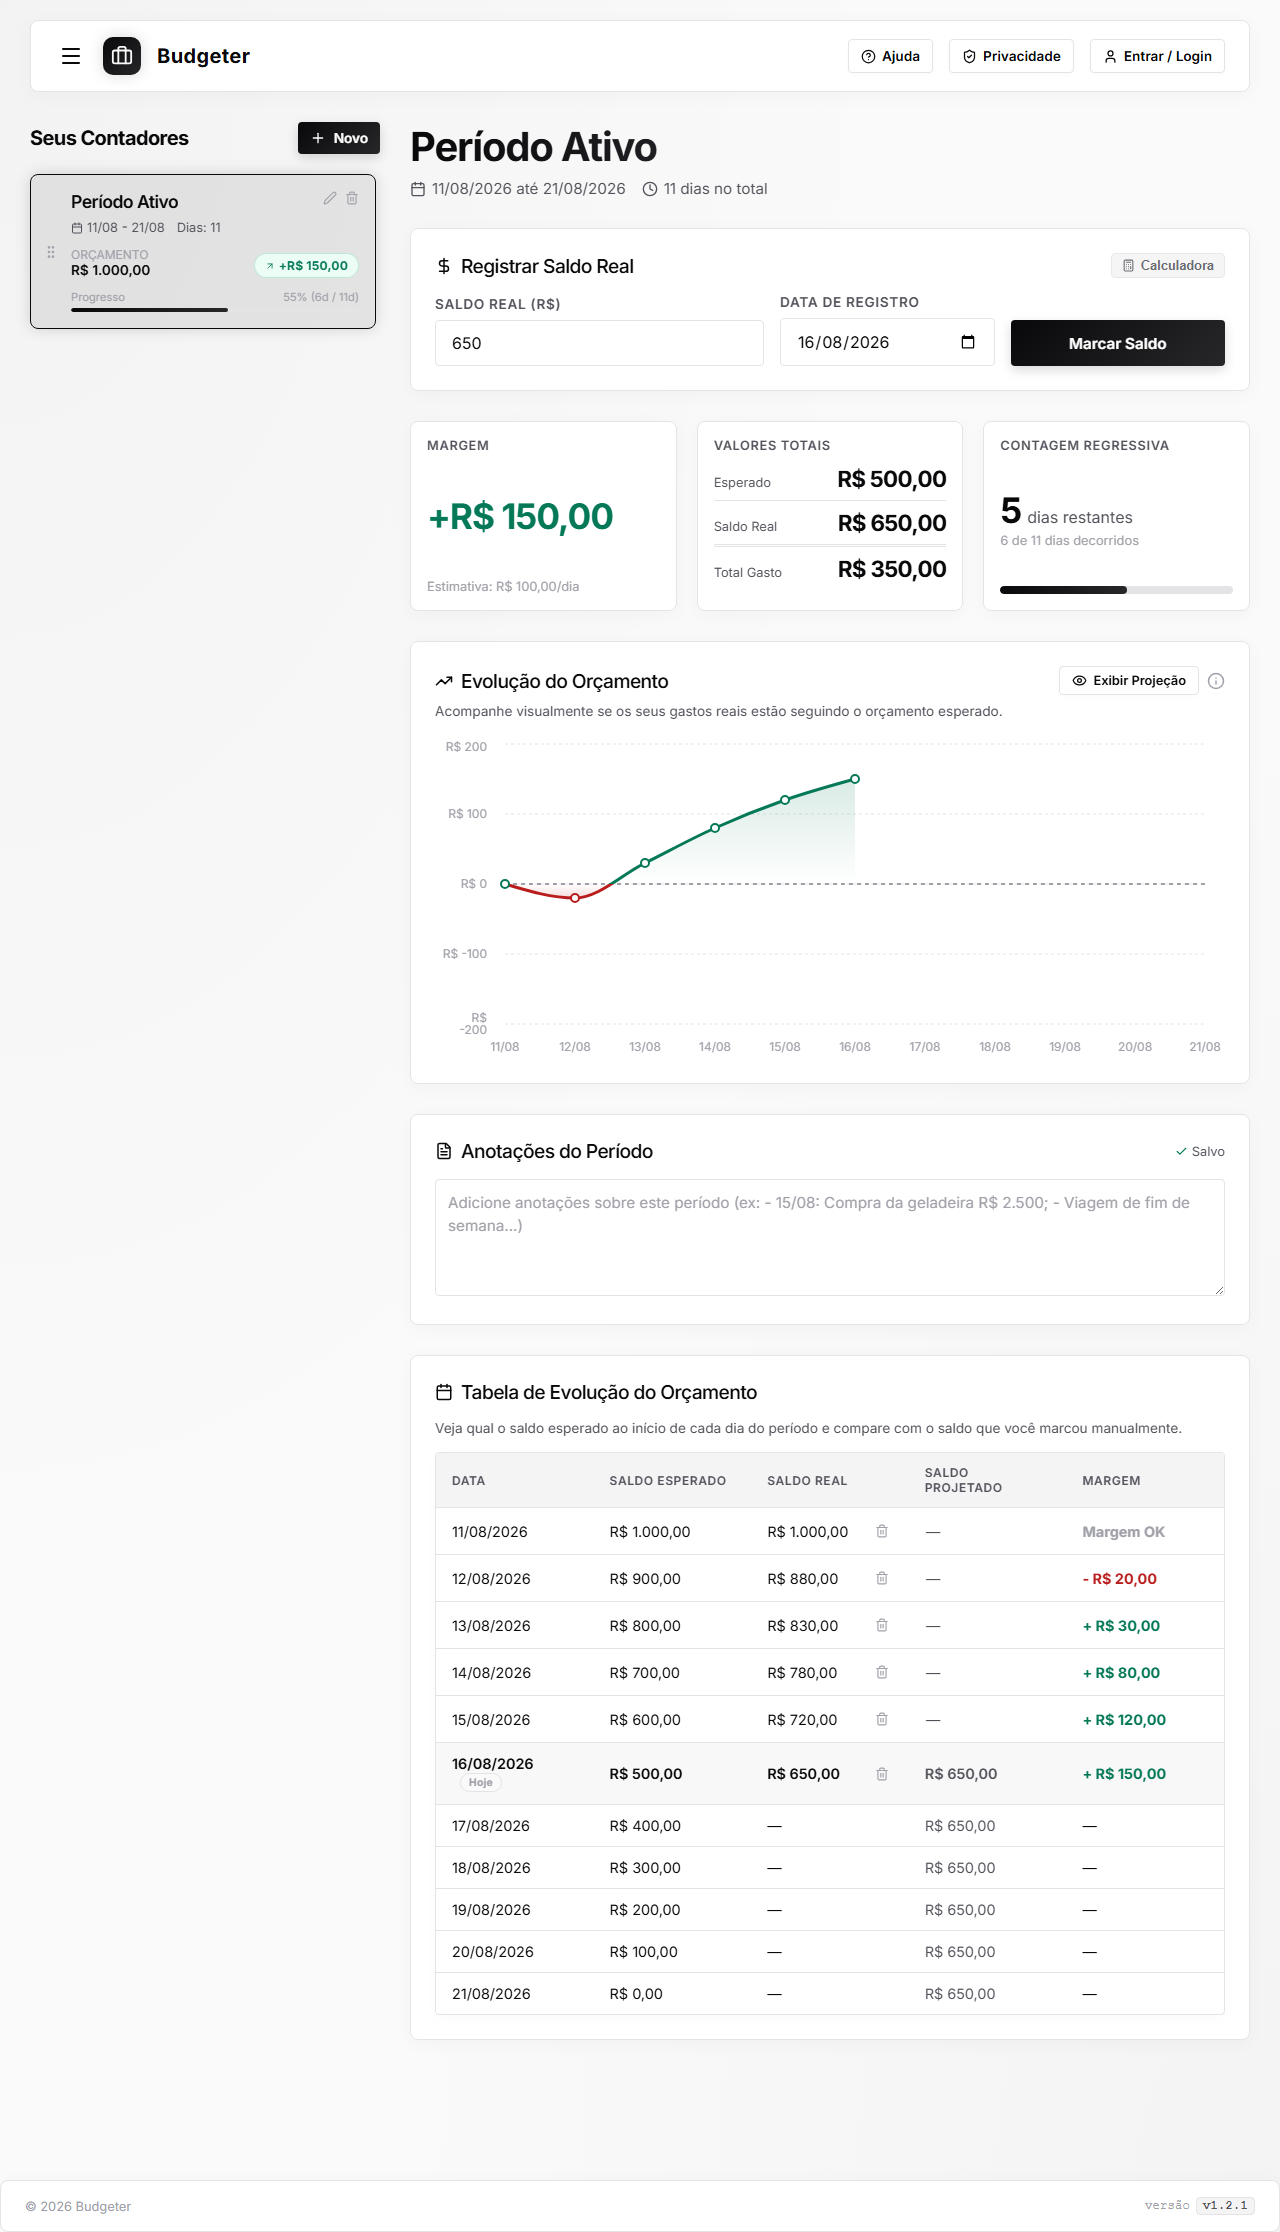
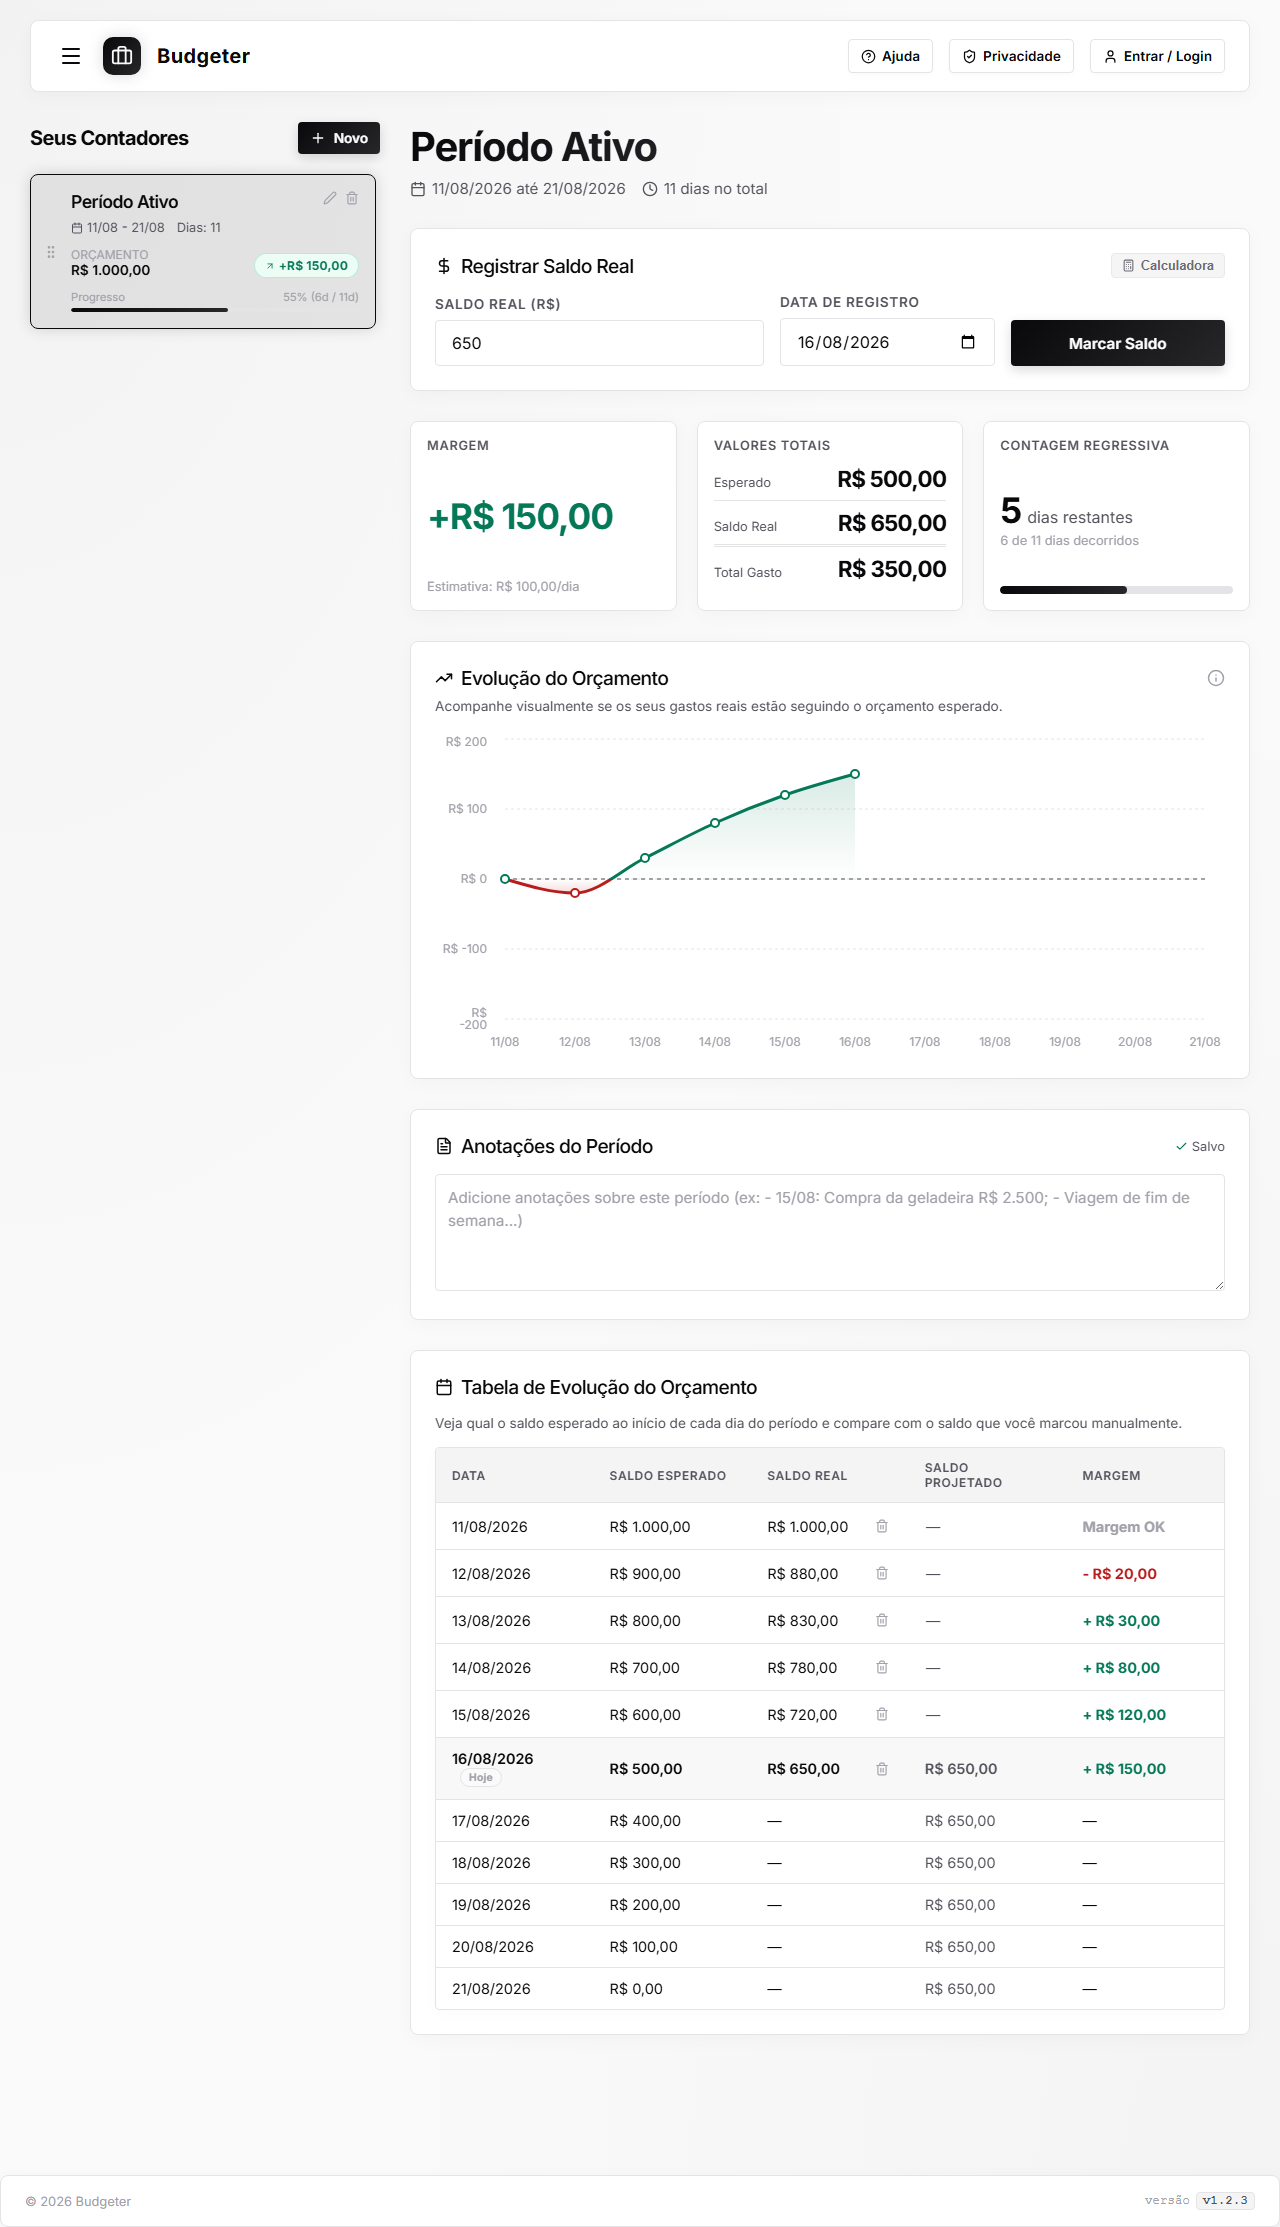
feat: exibir projeção automaticamente quando a margem for negativa e remover botão de toggle manual

diff --git a/tests/projection-toggle.spec.ts b/tests/projection-toggle.spec.ts
@@ -1,10 +1,10 @@
 import { test, expect } from '@playwright/test';
 
-test.describe('Botão de Exibir/Ocultar Projeção no Gráfico', () => {
-  test('deve manter a projeção oculta por padrão e exibi-la ao clicar no botão', async ({ page }) => {
+test.describe('Exibição Automática da Projeção no Gráfico', () => {
+  test('não deve exibir botão manual de toggle', async ({ page }) => {
     const mockPeriod = {
-      id: "test-period-projection",
-      name: "Teste Projeção",
+      id: "test-period-projection-btn",
+      name: "Teste Botão Projeção",
       startDate: "2026-07-01",
       endDate: "2026-07-31",
       initialBudget: 4000,
@@ -19,29 +19,82 @@ test.describe('Botão de Exibir/Ocultar Projeção no Gráfico', () => {
       userId: "teste"
     };
 
-    // Carrega os dados via localStorage usando addInitScript (conforme AGENTS.md)
     await page.addInitScript((data) => {
       window.localStorage.setItem('budgeter_periods', JSON.stringify([data]));
       window.localStorage.setItem('budgeter_selected_period_id', data.id);
+      window.localStorage.setItem('lgpd_consent_accepted', 'true');
     }, mockPeriod);
 
     await page.goto('/');
 
-    // Verifica se a página carregou
-    await expect(page.locator('h1')).toContainText('Teste Projeção');
-
-    // O botão de projeção deve estar visível e mostrar "Exibir Projeção" por padrão
+    // O botão de toggle de projeção não deve existir na interface
     const toggleBtn = page.locator('button.toggle-projection-btn');
-    await expect(toggleBtn).toBeVisible();
-    await expect(toggleBtn).toContainText('Exibir Projeção');
+    await expect(toggleBtn).toBeHidden();
+  });
 
-    // Por padrão, a linha/legenda da projeção não deve estar visível ou não renderizada no Recharts
-    // Ao clicar no botão, o texto do botão deve mudar para "Ocultar Projeção"
-    await toggleBtn.click();
-    await expect(toggleBtn).toContainText('Ocultar Projeção');
+  test('deve exibir a linha de projeção quando a margem for negativa', async ({ page }) => {
+    // Margem negativa: saldo registrado (1500) é menor que o esperado (~2366 no dia 15)
+    const mockPeriodNegative = {
+      id: "test-period-proj-neg",
+      name: "Teste Margem Negativa",
+      startDate: "2026-07-01",
+      endDate: "2026-07-31",
+      initialBudget: 4000,
+      finalBudget: 500,
+      currentBalance: 1500,
+      currentBalanceDate: "2026-07-15",
+      balanceHistory: {
+        "2026-07-01": 4000,
+        "2026-07-15": 1500
+      },
+      createdAt: "2026-07-01T10:00:00Z",
+      userId: "teste"
+    };
 
-    // Clicar novamente oculta a projeção
-    await toggleBtn.click();
-    await expect(toggleBtn).toContainText('Exibir Projeção');
+    await page.addInitScript((data) => {
+      window.localStorage.setItem('budgeter_periods', JSON.stringify([data]));
+      window.localStorage.setItem('budgeter_selected_period_id', data.id);
+      window.localStorage.setItem('lgpd_consent_accepted', 'true');
+    }, mockPeriodNegative);
+
+    await page.goto('/');
+    await page.waitForSelector('.recharts-responsive-container');
+
+    // A linha de projeção (.recharts-line) deve estar presente no SVG do Recharts
+    const projectedLine = page.locator('.recharts-line');
+    await expect(projectedLine).toBeVisible();
+  });
+
+  test('deve ocultar a linha de projeção quando a margem for positiva', async ({ page }) => {
+    // Margem positiva: saldo registrado (3000) é maior que o esperado (~2366 no dia 15)
+    const mockPeriodPositive = {
+      id: "test-period-proj-pos",
+      name: "Teste Margem Positiva",
+      startDate: "2026-07-01",
+      endDate: "2026-07-31",
+      initialBudget: 4000,
+      finalBudget: 500,
+      currentBalance: 3000,
+      currentBalanceDate: "2026-07-15",
+      balanceHistory: {
+        "2026-07-01": 4000,
+        "2026-07-15": 3000
+      },
+      createdAt: "2026-07-01T10:00:00Z",
+      userId: "teste"
+    };
+
+    await page.addInitScript((data) => {
+      window.localStorage.setItem('budgeter_periods', JSON.stringify([data]));
+      window.localStorage.setItem('budgeter_selected_period_id', data.id);
+      window.localStorage.setItem('lgpd_consent_accepted', 'true');
+    }, mockPeriodPositive);
+
+    await page.goto('/');
+    await page.waitForSelector('.recharts-responsive-container');
+
+    // A linha de projeção (.recharts-line) deve estar oculta / não renderizada no SVG
+    const projectedLine = page.locator('.recharts-line');
+    await expect(projectedLine).toBeHidden();
   });
 });

diff --git a/src/components/PeriodDetail.tsx b/src/components/PeriodDetail.tsx
@@ -12,9 +12,7 @@ import {
   Trash2,
   AlertCircle,
   Calculator,
-  ArrowLeft,
-  Eye,
-  EyeOff
+  ArrowLeft
 } from 'lucide-react';
 import { 
   ComposedChart, 
@@ -51,7 +49,7 @@ export const PeriodDetail: React.FC<PeriodDetailProps> = ({
   const [submitting, setSubmitting] = useState(false);
   const [successMsg, setSuccessMsg] = useState(false);
   const [showChartHelp, setShowChartHelp] = useState(false);
-  const [showProjection, setShowProjection] = useState(false);
+  const showProjection = metrics.difference !== undefined && metrics.difference < 0;
   const [isMobile, setIsMobile] = useState(window.innerWidth <= 768);
   const [deleteTargetDate, setDeleteTargetDate] = useState<string | null>(null);
   const [deleting, setDeleting] = useState(false);
@@ -848,24 +846,6 @@ export const PeriodDetail: React.FC<PeriodDetailProps> = ({
             </h3>
             
             <div style={{ display: 'flex', alignItems: 'center', gap: '8px' }}>
-              <button
-                type="button"
-                className="btn btn-secondary toggle-projection-btn"
-                onClick={() => setShowProjection(!showProjection)}
-                style={{
-                  display: 'inline-flex',
-                  alignItems: 'center',
-                  gap: '6px',
-                  fontSize: '0.8rem',
-                  padding: isMobile ? '5px 10px' : '6px 12px',
-                  whiteSpace: 'nowrap'
-                }}
-                title={showProjection ? "Ocultar linha de projeção no gráfico" : "Exibir linha de projeção no gráfico"}
-              >
-                {showProjection ? <EyeOff size={15} /> : <Eye size={15} />}
-                <span>{showProjection ? 'Ocultar Projeção' : 'Exibir Projeção'}</span>
-              </button>
-
               <div 
                 style={{ position: 'relative', display: 'flex', alignItems: 'center', cursor: 'help' }}
                 onMouseEnter={() => setShowChartHelp(true)}
